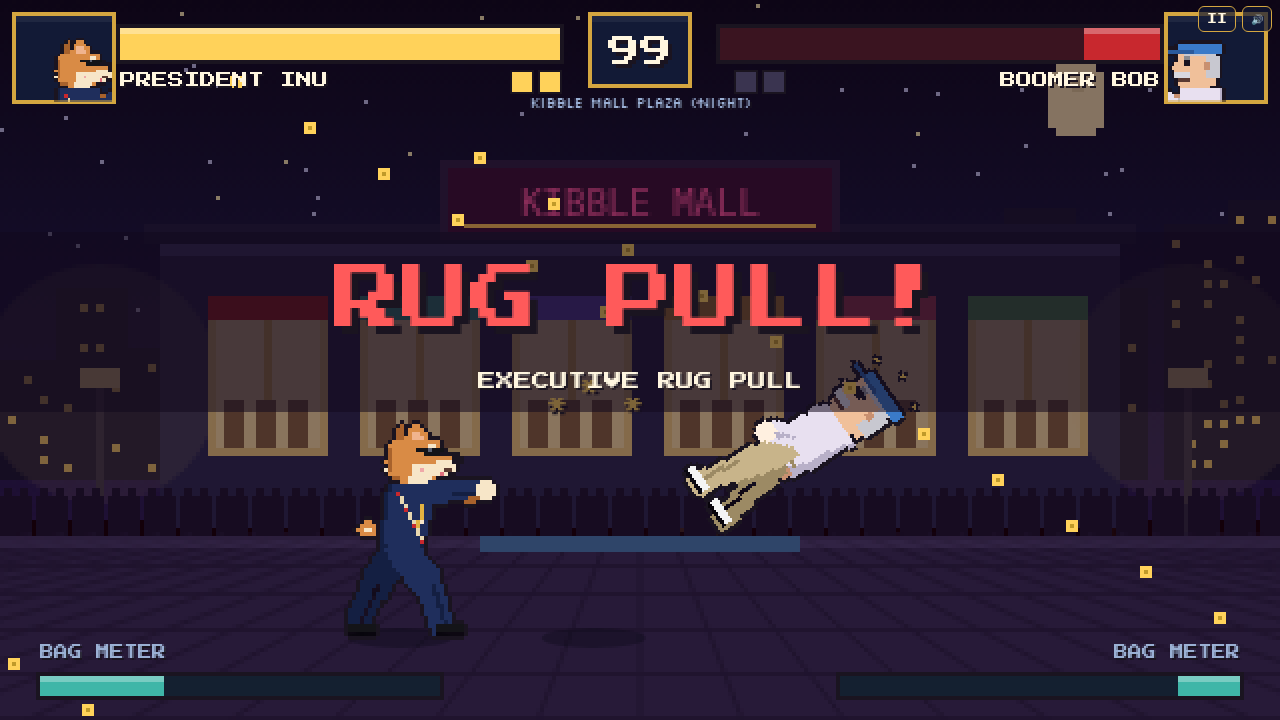
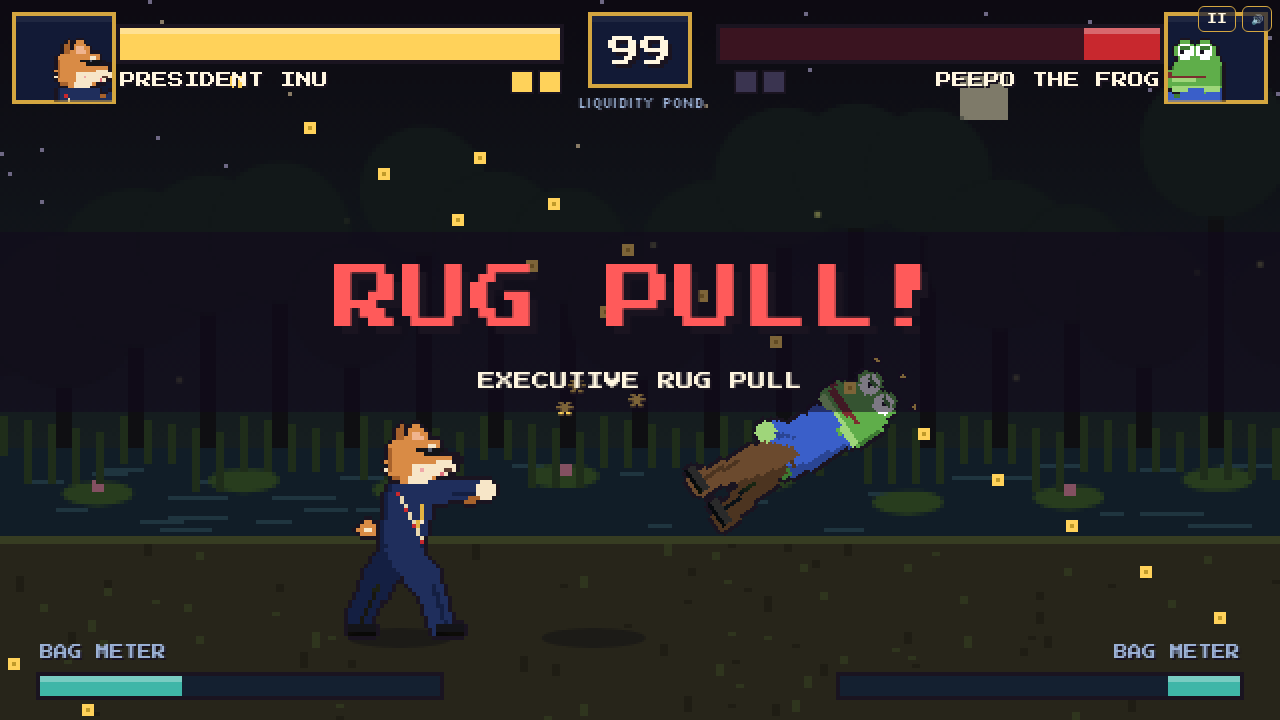
README, proof screenshots, e2e results

diff --git a/README.md b/README.md
@@ -1,0 +1,12 @@
+# Meme Brawl (repo working title: meme-kombat)
+An original browser 2D versus fighter in vanilla JS canvas. It stars parody homages of the memecoin mascots trending in Oct 2026, plus President Inu. See RESEARCH.md for the roster sources and IP notes.
+
+The in-game title is **Meme Brawl** because the brief bans the word "Kombat". The repo and folder keep the working name.
+
+- Play: https://meme-kombat-mu.vercel.app
+- Modes: Arcade (6 rivals + boss Lord Rugsworth), Versus 2P on one keyboard, Ranked (Elo), Skin Shop + Wallet
+- Keys: P1 uses WASD to move, F/G to punch (light/heavy), V/B to kick (light/heavy). P2 uses the arrows with K/L/,/. for the same. P pauses, M mutes, Esc goes back.
+- Specials (facing right): D,DF,F+P fires a projectile. B,F+K is a rush. D,D+P is a rising launcher. Super is D,DF,F+K with a full meter. Throw is F+HP up close.
+- After winning the match: FINISH THE BAG. Enter D,D+HK within 3 s for the fighter's Rug Pull finisher (cartoon, no gore).
+- $KIBBLE is **simulated** by default (src/kibble.js). Add `?kibble=<kibble-pay deploy URL>` to use the shared kibblePay SDK. The fee split is 2%: 1% to the treasury BzLYTFAfUsjzQ5x8bx5BbPK4DFtaHrLCuferkvkxTNGJ, plus 0.25%, 0.5% and 0.25% to the daily, weekly and monthly pools. Holder alt costumes are cosmetic only. Ranked prizes are fixed shares by rank, with no draws and no paid entry.
+- Tests: `npm test` runs the headless combat logic tests. `npm run e2e` runs Playwright on desktop and iPhone 13 landscape, and screenshots go to proof/.
